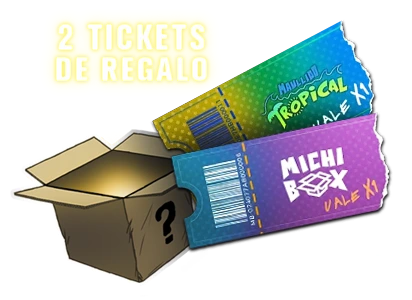
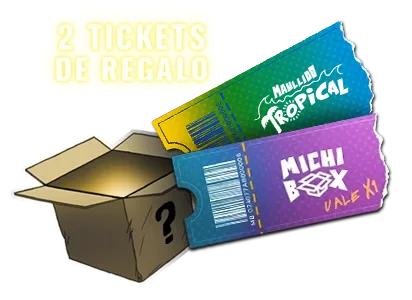
v_3.0.5_tienda

Changed region(s): [[0.3495, 0.06, 0.9029, 0.51]]

diff --git a/regalos.html b/regalos.html
@@ -28,13 +28,13 @@
 <div class="opcionesdecompra">
 
 <div class="compra">
-  <div class="imagenproducto" style="background-image: url(./assets/TICKET\ 01.webp);">  </div>
+  <div class="imagenproducto" style="background-image: url(./assets/TICKET\ 01b.webp);">  </div>
   <p class="productodescripcion"> <B>TICKET</B> <br> (CANJEA 1 CARTA DE MICHI-BOX)</p>
   <button class="botonCopiar" data-codigo="020AMB0562HGHYUD5">1 TICKET GRATIS</button>
 </div>
 
 <div class="compra">
-  <div class="imagenproducto" style="background-image: url(./assets/TICKET\ 02_mt.webp);">  </div>
+  <div class="imagenproducto" style="background-image: url(./assets/TICKET\ 02_mt_b.webp);">  </div>
   <p class="productodescripcion"> <B>TICKET</B> <br> (CANJEA 1 CARTA DE MAULLIDO TROPICAL)</p>
   <button class="botonCopiar" data-codigo="0550MBMTHU888555TH">1 TICKET GRATIS</button>
 </div>

diff --git a/galeria.html b/galeria.html
@@ -1596,9 +1596,9 @@
    class="carruseldeexpansiones-item lazy-michi" 
    style="background-image: url(./assets/expansion002B_sobre.webp);"></a>
 
-<a href="#MICHIBOX003" onclick="cerrarVentanaExpansiones();" 
+<div href="#MICHIBOX003"  
    class="carruseldeexpansiones-item lazy-michi" 
-   style="background-image: url(./assets/expansion_proximamente_sobre.webp);"></a>
+   style="background-image: url(./assets/expansion_proximamente_sobre.webp);"></div>
         </div>
     <button class="carruseldeexpansiones-btn next" onclick="moverCarruseldeExpansiones(1)">›</button>
       </div>

diff --git a/style/style.css b/style/style.css
@@ -1462,7 +1462,7 @@ background-size: contain;
 background-position: center;
 background-repeat: no-repeat;
   z-index: 9999999;
-  animation:fadeIn 1.5s ease-in-out, zoomprimeravez 1.5s ease-in-out;
+  animation:fadeIn 1s ease-in-out, zoomprimeravez 1s ease-in-out;
 
 
 }
